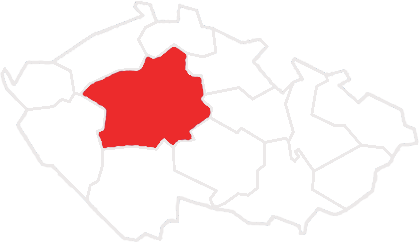
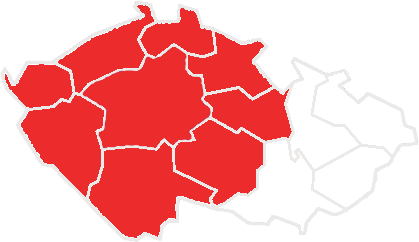
update map

Changed region(s): [[0.0, 0.0, 0.7136, 0.9835]]

diff --git a/src/components/Contact.js b/src/components/Contact.js
@@ -31,7 +31,7 @@ const Contact = () => (
         </div>
       </div>
       <br />
-      <div>Působíme v Praze a Středočeském kraji</div>
+      <div>Působíme v celých Čechách!</div>
       <div className="Contact-socialMedia">
         <a href="https://www.facebook.com/arbovertcz" target="_blank" rel="noopener noreferrer">
           <FacebookIcon className="Contact-facebook" />
